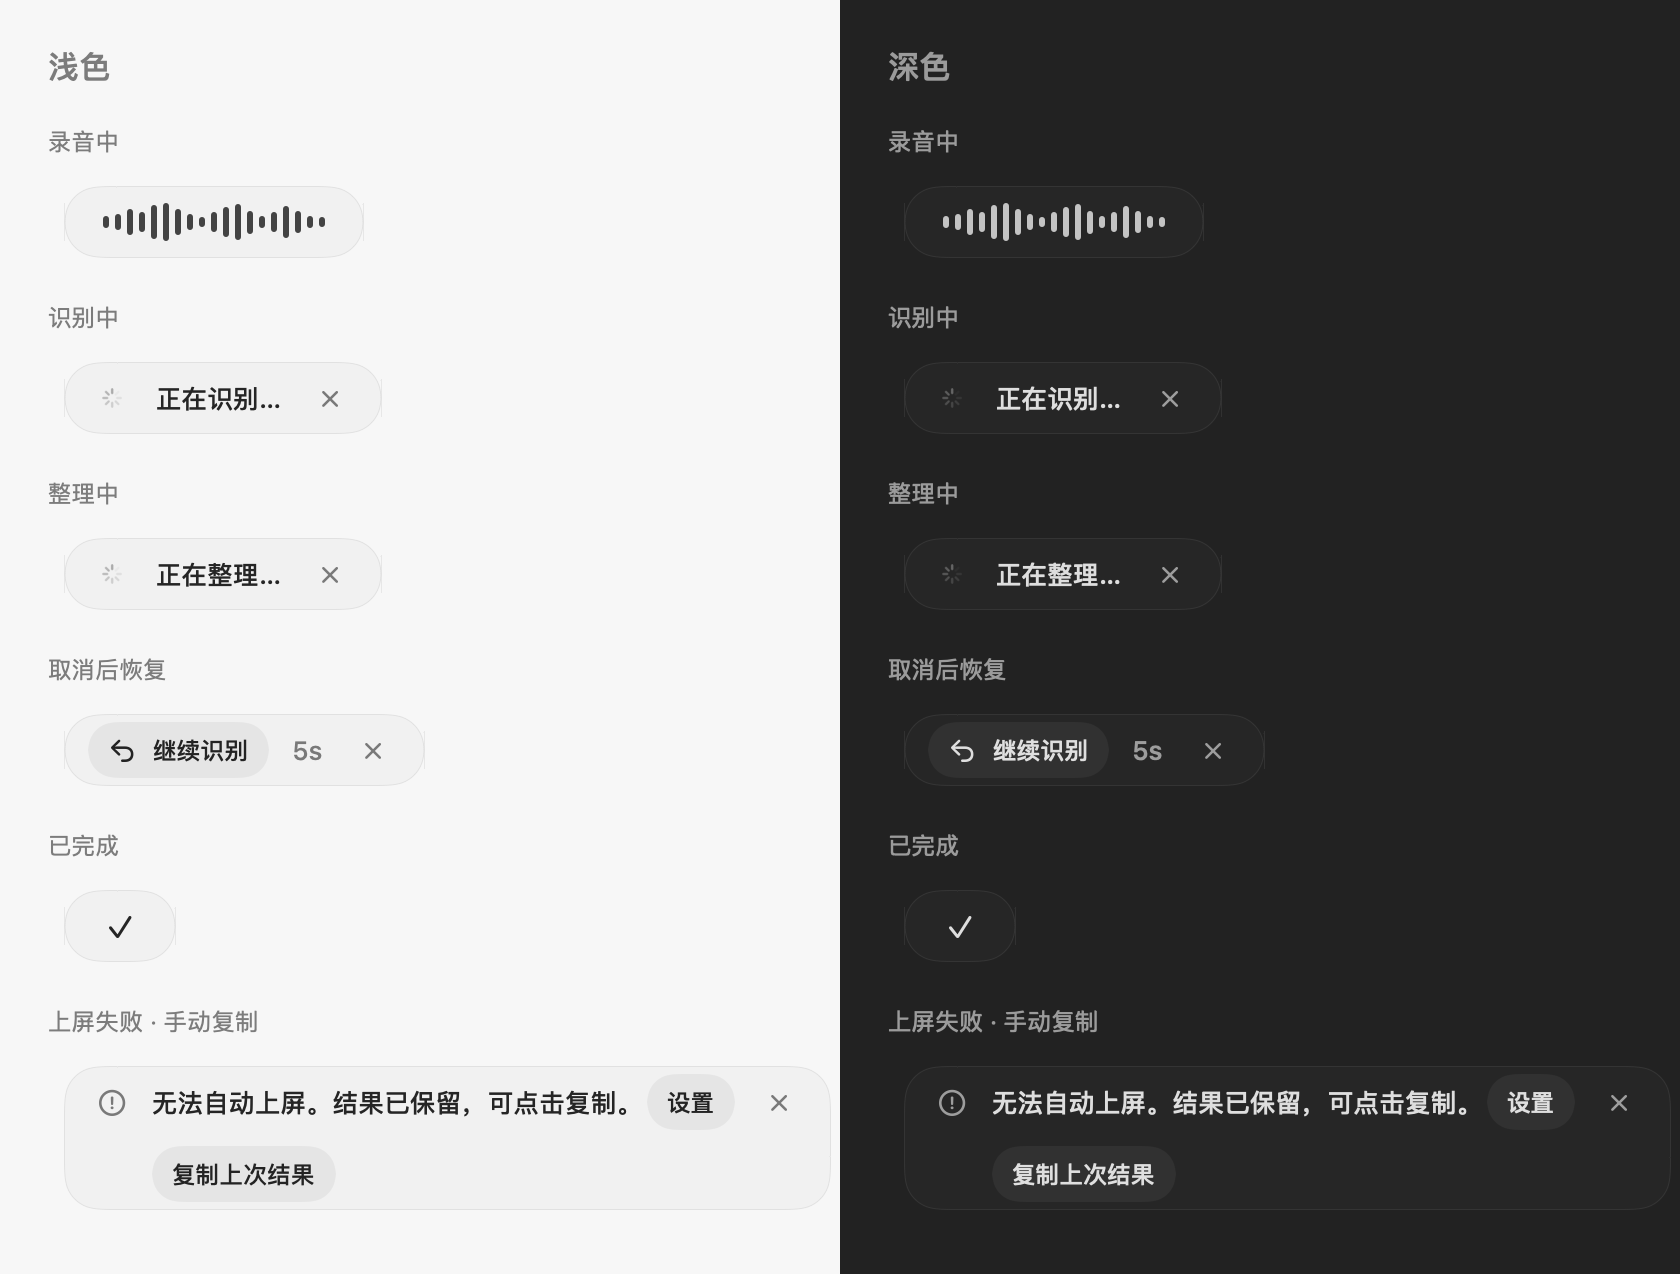
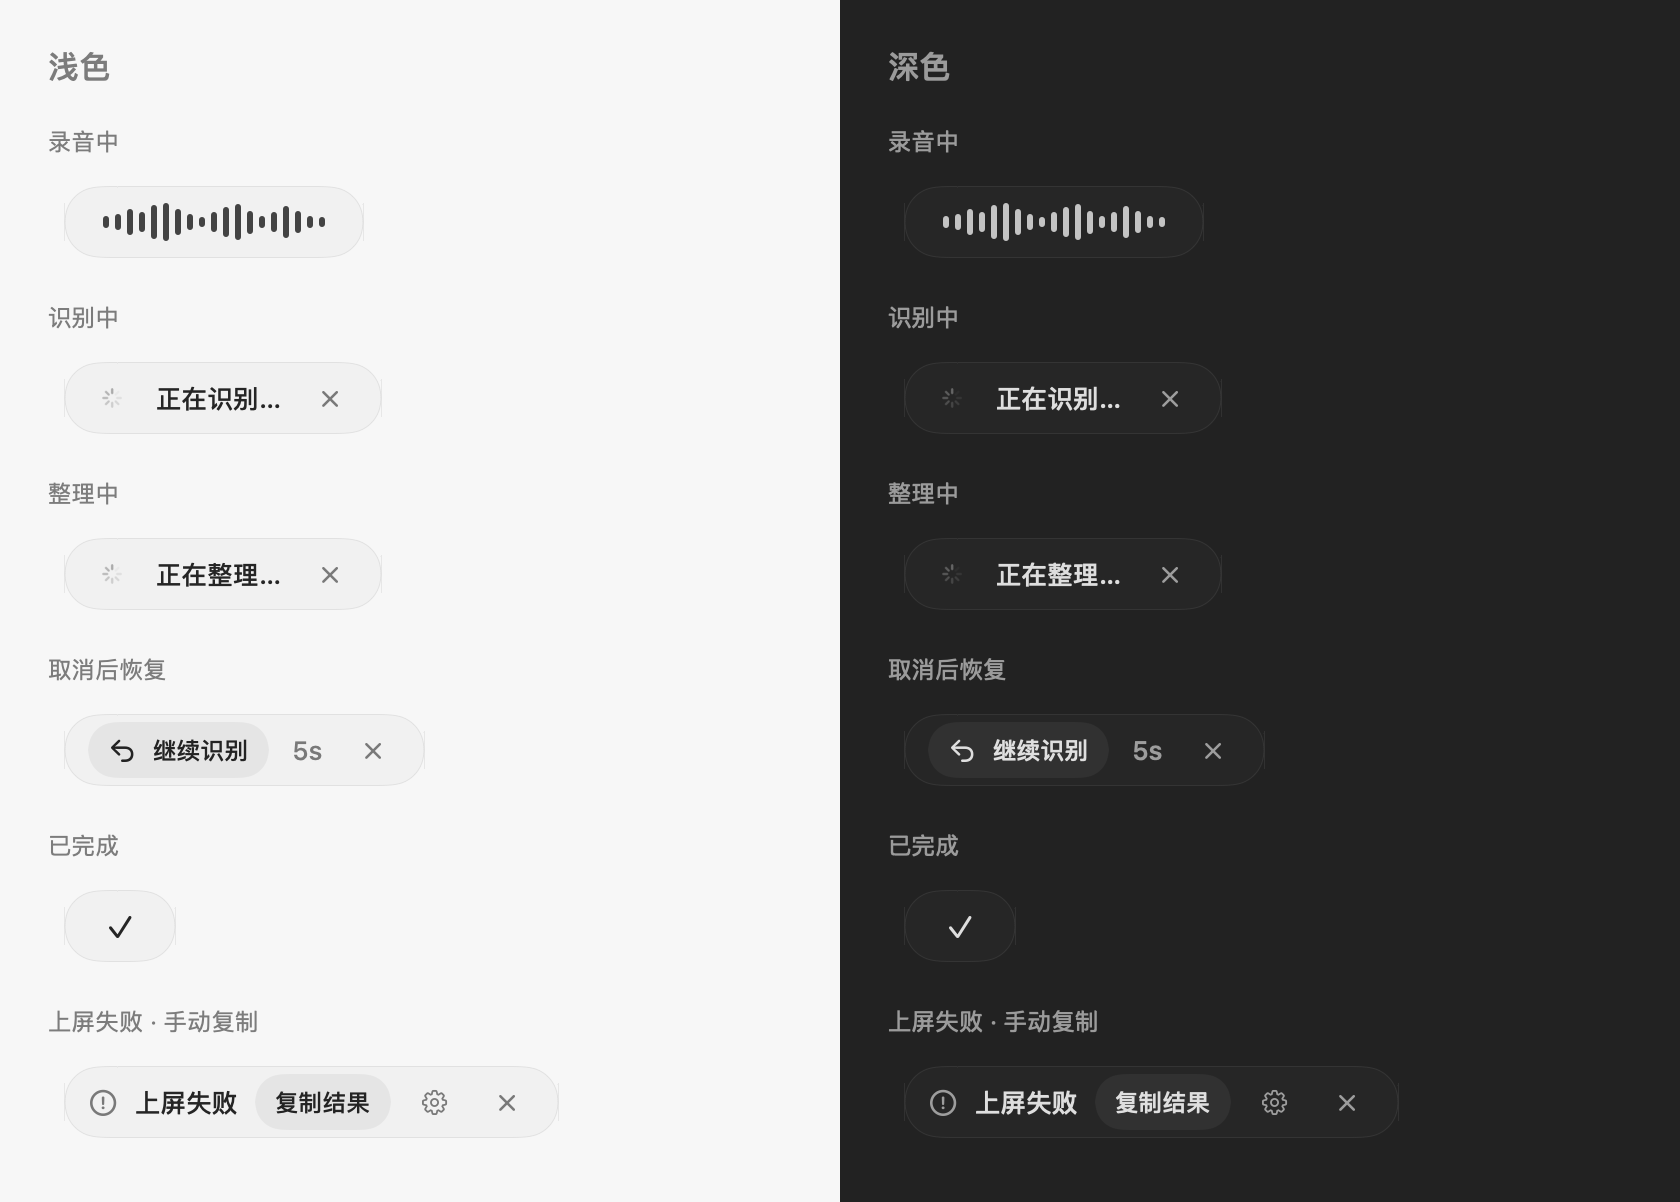
ui: keep insertion failure recovery in one compact bar

diff --git a/Sources/YouJustSay/Views/DictationBar.swift b/Sources/YouJustSay/Views/DictationBar.swift
@@ -23,34 +23,33 @@ struct DictationBar: View {
 
     @ViewBuilder private var content: some View {
         if let error = session.error {
-            VStack(alignment: .leading, spacing: 8) {
-                HStack(spacing: 8) {
-                    Image(systemName: "exclamationmark.circle")
-                        .foregroundStyle(.secondary)
-                        .frame(width: 24)
-                        .accessibilityHidden(true)
-                    Text(preferences.t(error))
-                        .frame(maxWidth: 260, alignment: .leading)
-                        .fixedSize(horizontal: false, vertical: true)
-                    settingsButton
-                    closeButton
-                }
-                if session.completed && !session.lastResult.isEmpty {
-                    Button(preferences.t("copyLast")) { session.copyLastResult() }
+            if session.completed && !session.lastResult.isEmpty {
+                insertionRecoveryBar(error: error)
+            } else {
+                VStack(alignment: .leading, spacing: 8) {
+                    HStack(spacing: 8) {
+                        Image(systemName: "exclamationmark.circle")
+                            .foregroundStyle(.secondary)
+                            .frame(width: 24)
+                            .accessibilityHidden(true)
+                        Text(preferences.t(error))
+                            .frame(maxWidth: 260, alignment: .leading)
+                            .fixedSize(horizontal: false, vertical: true)
+                        settingsButton
+                        closeButton
+                    }
+                    if !session.completed && (session.hasAudio || !session.original.isEmpty) {
+                        HStack(spacing: 6) {
+                            if !session.original.isEmpty {
+                                Button(preferences.t("retryPolish")) { session.polish(preferences) }
+                                Button(preferences.t("copyOriginal")) { session.deliverOriginal(preferences) }
+                            } else {
+                                Button(preferences.t("retry")) { session.transcribe(preferences) }
+                            }
+                        }
                         .buttonStyle(FloatingBarButtonStyle(prominent: true))
                         .padding(.leading, 32)
-                }
-                if !session.completed && (session.hasAudio || !session.original.isEmpty) {
-                    HStack(spacing: 6) {
-                        if !session.original.isEmpty {
-                            Button(preferences.t("retryPolish")) { session.polish(preferences) }
-                            Button(preferences.t("copyOriginal")) { session.deliverOriginal(preferences) }
-                        } else {
-                            Button(preferences.t("retry")) { session.transcribe(preferences) }
-                        }
                     }
-                    .buttonStyle(FloatingBarButtonStyle(prominent: true))
-                    .padding(.leading, 32)
                 }
             }
         } else if session.phase == .recording {
@@ -91,6 +90,30 @@ struct DictationBar: View {
                 Text(preferences.t(session.phase.rawValue)).fixedSize()
                 closeButton
             }
+        }
+    }
+
+    private func insertionRecoveryBar(error: String) -> some View {
+        HStack(spacing: 8) {
+            Image(systemName: "exclamationmark.circle")
+                .foregroundStyle(.secondary)
+                .accessibilityHidden(true)
+            Text(preferences.t(error == "insertionFailed" || error == "targetChanged" ? error + "Short" : error))
+                .lineLimit(1)
+                .help(preferences.t(error))
+                .accessibilityLabel(preferences.t(error))
+            Button(preferences.t("copyResult")) { session.copyLastResult() }
+                .buttonStyle(FloatingBarButtonStyle(prominent: true))
+            Button {
+                dismiss()
+                openSettings()
+            } label: {
+                Image(systemName: "gearshape").font(.system(size: 12))
+            }
+            .buttonStyle(FloatingBarButtonStyle())
+            .help(preferences.t("settings"))
+            .accessibilityLabel(preferences.t("settings"))
+            closeButton
         }
     }
 

diff --git a/Sources/YouJustSay/Models/Language.swift b/Sources/YouJustSay/Models/Language.swift
@@ -91,6 +91,9 @@ enum Language: String, CaseIterable, Identifiable, Codable {
         "customHint": ["Use an HTTPS OpenAI-compatible base URL, such as https://host/v1. The app appends /chat/completions. Your key and text go to this address.", "填写兼容 OpenAI 的 HTTPS 基础地址，如 https://host/v1。应用追加 /chat/completions。密钥与文字将发往此地址。", "填寫相容 OpenAI 的 HTTPS 基礎位址，如 https://host/v1。App 會附加 /chat/completions。金鑰與文字將傳送至此位址。"],
         "invalidEndpoint": ["Enter an HTTPS API base URL and model name.", "请填写有效的 HTTPS 基础地址和模型名称。", "請填寫有效的 HTTPS 基礎位址與模型名稱。"],
         "copyLast": ["Copy last result", "复制上次结果", "複製上次結果"],
+        "copyResult": ["Copy result", "复制结果", "複製結果"],
+        "insertionFailedShort": ["Insertion failed", "上屏失败", "輸入失敗"],
+        "targetChangedShort": ["Focus changed", "输入位置已改变", "輸入位置已改變"],
         "polishEnabled": ["Polish text", "启用文字润色", "啟用文字潤飾"],
         "edit": ["Edit", "编辑", "編輯"],
         "undo": ["Undo", "撤销", "還原"],
